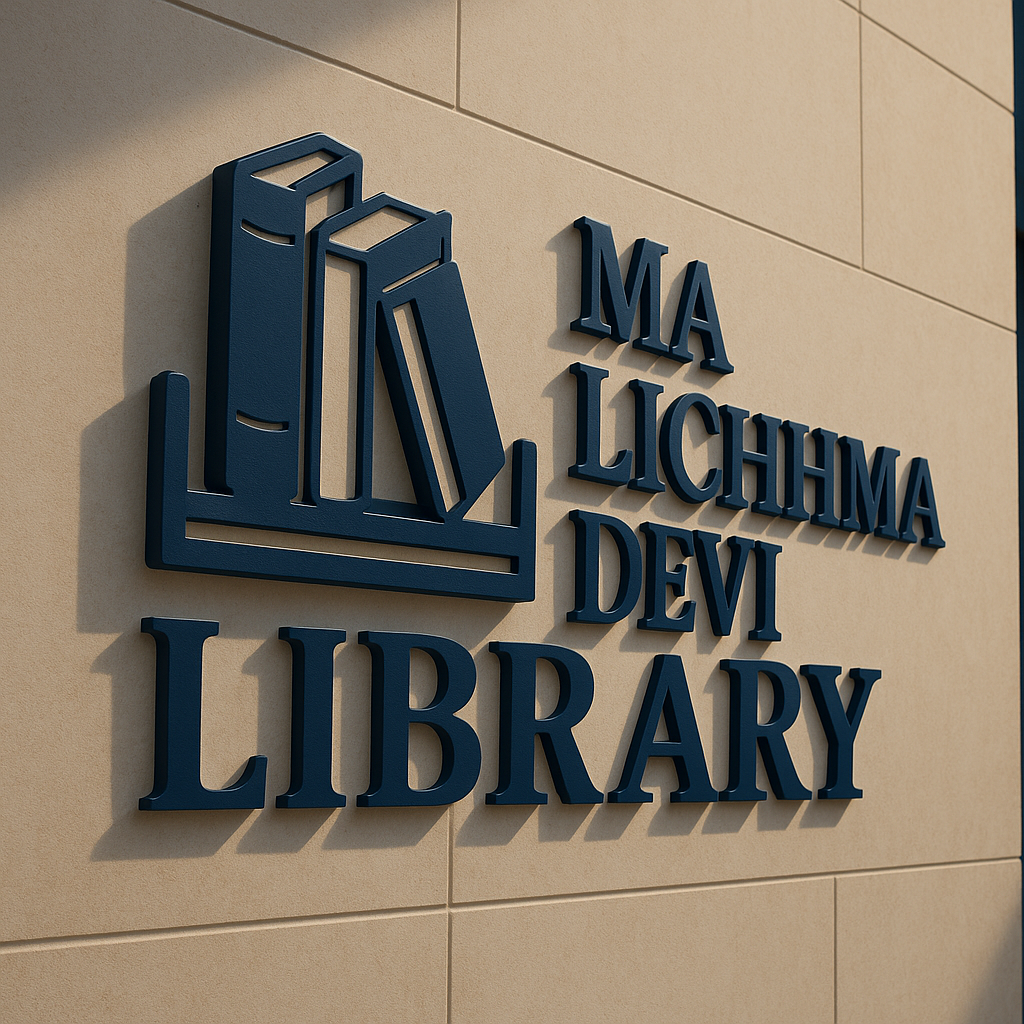
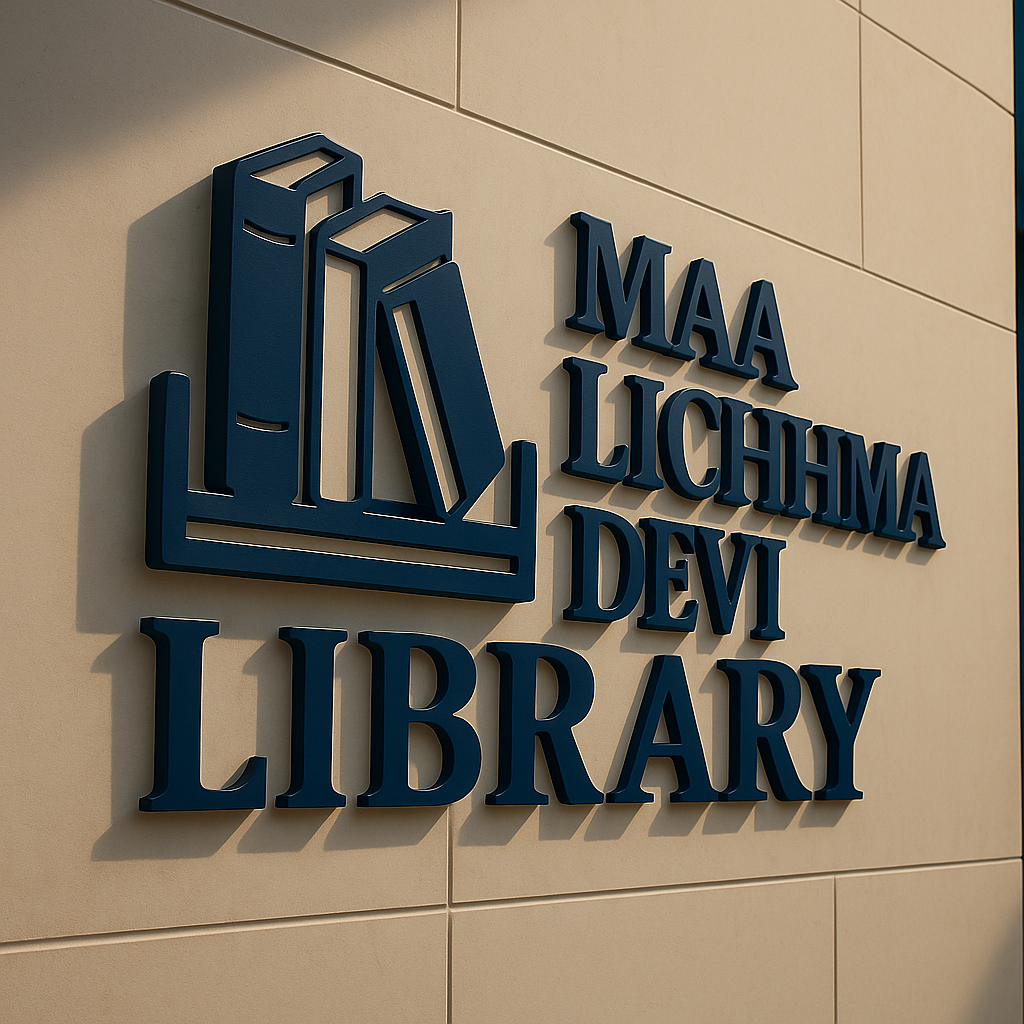
Wrap up

diff --git a/src/pages/Home.js b/src/pages/Home.js
@@ -12,7 +12,7 @@ export default function Home() {
             alt="Front of Library"
           />
           <p>
-            The front gate of MA LICHHMA DEVI LIBRARY welcomes all students and
+            The front gate of MAA LICHHHMA DEVI LIBRARY welcomes all students and
             visitors. We ensure a clean, secure entrance with clear signage. The
             library is easily accessible to everyone in the community.
           </p>
@@ -20,15 +20,12 @@ export default function Home() {
 
         <div className="col-md-6 text-center mb-4">
           <img
-            src="/assets/Parking.jpg"
+            src="/assets/Cabin.png"
             className="library-image img-fluid"
             alt="Parking of Library"
           />
           <p>
-            Our spacious parking area provides safe parking for bikes and
-            scooters. Covered parking and wide pathways make it convenient for
-            students. Visitors can focus on learning without worrying about
-            their vehicles.
+            Our library cabin provides a quiet, private space for focused study and meetings. Equipped with comfortable seating and good lighting, it’s ideal for discussions, project work, or individual reading. 
           </p>
         </div>
 
@@ -48,7 +45,7 @@ export default function Home() {
 
         <div className="col-md-6 text-center mb-4">
           <img
-            src="/assets/Testing.jpg"
+            src="/assets/Cabin.png"
             className="library-image img-fluid"
             alt="Lakshay Limba"
           />

diff --git a/src/pages/Contact.js b/src/pages/Contact.js
@@ -25,7 +25,7 @@ export default function Contact() {
         </div>
           
     <div className="col-md-6">
-      <h3 className="owner-heading">Mr. DharamPal Limba</h3>
+      <h3 className="owner-heading">Er. DharamPal Limba</h3>
       <p className="contact-text">
         <svg
           xmlns="http://www.w3.org/2000/svg"
@@ -56,7 +56,7 @@ export default function Contact() {
             d="M1.885.511a1.745 1.745 0 0 1 2.61.163L6.29 2.98c.329.423.445.974.315 1.494l-.547 2.19a.68.68 0 0 0 .178.643l2.457 2.457a.68.68 0 0 0 .644.178l2.189-.547a1.75 1.75 0 0 1 1.494.315l2.306 1.794c.829.645.905 1.87.163 2.611l-1.034 1.034c-.74.74-1.846 1.065-2.877.702a18.6 18.6 0 0 1-7.01-4.42 18.6 18.6 0 0 1-4.42-7.009c-.362-1.03-.037-2.137.703-2.877zM15.854.146a.5.5 0 0 1 0 .708L11.707 5H14.5a.5.5 0 0 1 0 1h-4a.5.5 0 0 1-.5-.5v-4a.5.5 0 0 1 1 0v2.793L15.146.146a.5.5 0 0 1 .708 0"
           />
         </svg>
-        <strong> Phone:</strong> +91 94134-31446 (Mr. DharamPal Limba)
+        <strong> Phone:</strong> +91 94134-31446 
       </p>
 
       <p className="contact-text">
@@ -108,6 +108,17 @@ export default function Contact() {
             className="form-control"
             id="name"
             placeholder="Your Name"
+            required
+          />
+        </div>
+
+        <div className="mb-3">
+          <input
+            type="contact"
+            name="Contact no."
+            className="form-control"
+            id="contact"
+            placeholder="Contact Number"
             required
           />
         </div>

diff --git a/src/pages/About.js b/src/pages/About.js
@@ -52,7 +52,7 @@ export default function About() {
           <h4 className="about-subheading">Our History</h4>
           <p className="about-text">
             MAA LICHHMA DEVI LIBRARY was founded in 2025 in loving memory of
-            Late Smt. Lichma Devi Ji. Inspired by her vision for education and
+            Late Smt. Lichhma Devi Ji. Inspired by her vision for education and
             community growth, the Limba family established this library to help
             students and readers access quality study materials and a peaceful
             place to learn, close to home.
@@ -113,9 +113,9 @@ export default function About() {
           <h4 className="about-subheading">Our Founder</h4>
           <p className="about-text">
             MAA LICHHMA DEVI LIBRARY is proudly managed and developed under the
-            guidance of Mr. DharamPal Limba, whose dedication and vision turned
-            this dream into reality. Inspired by his mother, Smt. Lichma Devi
-            Ji, Mr. Limba has worked tirelessly to build a peaceful, welcoming
+            guidance of Er. DharamPal Limba, whose dedication and vision turned
+            this dream into reality. Inspired by his mother, Smt. Lichhma Devi
+            Ji, Er. Limba has worked tirelessly to build a peaceful, welcoming
             space where students can study, grow, and succeed.
           </p>
 

diff --git a/src/components/Navbar.js b/src/components/Navbar.js
@@ -9,8 +9,18 @@ export default function Navbar() {
         <Link className="navbar-brand" to="/">
           <img src="/assets/LOGOPNG.png" alt="MLD Library Logo" style={{ height: '60px', width: '130', padding: '0px'}} />
         </Link>
-        <button className="navbar-toggler" type="button" data-bs-toggle="collapse" data-bs-target="#navbarNavDropdown" aria-controls="navbarNavDropdown" aria-expanded="false" aria-label="Toggle navigation">
-          <span className="navbar-toggler-icon"></span>
+        <button
+          className="navbar-toggler"
+          type="button"
+          data-bs-toggle="collapse"
+          data-bs-target="#navbarNavDropdown"
+          aria-controls="navbarNavDropdown"
+          aria-expanded="false"
+          aria-label="Toggle navigation"
+        >
+          <span className="custom-toggler-bar"></span>
+          <span className="custom-toggler-bar"></span>
+          <span className="custom-toggler-bar"></span>
         </button>
         <div className="collapse navbar-collapse" id="navbarNavDropdown">
           <ul className="navbar-nav me-auto mb-2 mb-lg-0">

diff --git a/src/pages/Owner.js b/src/pages/Owner.js
@@ -19,7 +19,7 @@ export default function Owner() {
           />
         </div>
         <div className="col-md-6">
-          <h3 className="owner-heading">Mr. DharamPal Limba</h3>
+          <h3 className="owner-heading">Er. DharamPal Limba</h3>
           <p className="owner-text">
             <svg
               xmlns="http://www.w3.org/2000/svg"
@@ -71,8 +71,8 @@ export default function Owner() {
       </div>
       <p>
         MAA LICHHMA DEVI LIBRARY is proudly managed and developed under the
-        guidance of Mr. DharamPal Limba, whose dedication and vision turned this
-        dream into reality. Inspired by his mother, Smt. Lichma Devi Ji, Mr.
+        guidance of Er. DharamPal Limba, whose dedication and vision turned this
+        dream into reality. Inspired by his mother, Smt. Lichhma Devi Ji, Mr.
         Limba has worked tirelessly to build a peaceful, welcoming space where
         students can study, grow, and succeed.
       </p>

diff --git a/src/components/App.css b/src/components/App.css
@@ -33,6 +33,29 @@ body {
   animation: fadeInUp 0.8s ease forwards;
 }
 
+/* Remove default Bootstrap icon */
+.navbar-toggler-icon {
+  display: none;
+}
+
+/* Container button style */
+.navbar-toggler {
+  border: none;
+  padding: 0.25rem 0.5rem;
+  outline: none;
+}
+
+/* Custom bars */
+.custom-toggler-bar {
+  display: block;
+  width: 30px;
+  height: 3px;
+  margin: 5px auto;
+  background-color: var(--secondary);
+  transition: all 0.3s ease-in-out;
+  border-radius: 2px;
+}
+
 
 /* === HEADER === */
 header {

diff --git a/public/index.html b/public/index.html
@@ -2,7 +2,7 @@
 <html lang="en">
   <head>
     <meta charset="utf-8" />
-    <link rel="icon" href="%PUBLIC_URL%/favicon.ico" />
+    <link rel="icon" type="image/png" href="%PUBLIC_URL%/favicon.png" />
     <meta name="viewport" content="width=device-width, initial-scale=1" />
     <meta name="theme-color" content="#000000" />
     <meta
